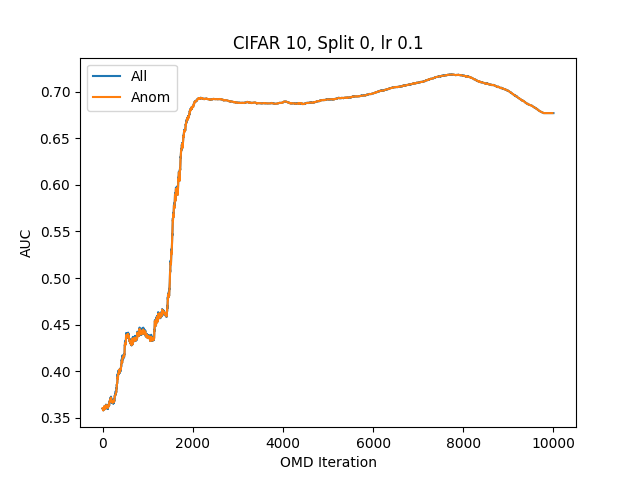
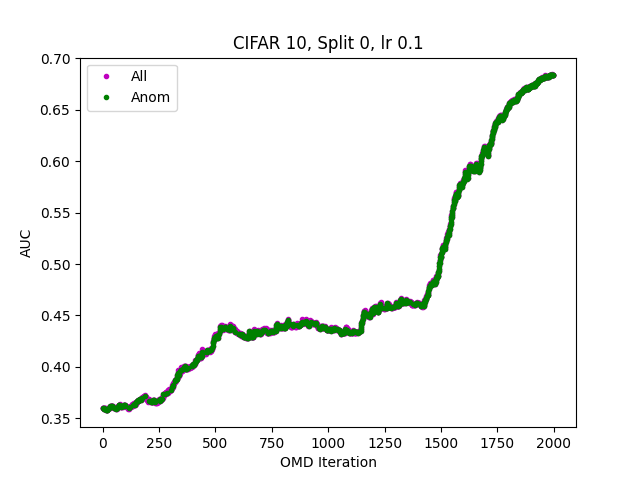
Truncated Trials

diff --git a/oracle_omd.py b/oracle_omd.py
@@ -89,7 +89,7 @@ def omd_test(train_latent_data, latent_data, anom_classes, split, loda_tx_test, 
                   be a list of unique strings)
     '''
     N = len(latent_data)
-    T = N
+    T = N//5
     epochs = 1
     labels = latent_data['label'].copy()
     labels = labels.to_numpy().reshape((len(labels),1))
@@ -170,7 +170,7 @@ def omd(train_latent_data, latent_data, anom_classes, split, strategy="max", lea
     '''
     N = len(latent_data)
     epochs = 1
-    T = N
+    T = N//5
     labels = latent_data['label'].copy()
     labels = labels.to_numpy().reshape((len(labels),1))
     wprior, clf = get_weight_prior(train_latent_data)
@@ -184,7 +184,7 @@ def omd(train_latent_data, latent_data, anom_classes, split, strategy="max", lea
         with open(loda_tx_val_filename, 'rb') as f:
             data_orig = np.load(f)
     else:
-        data_orig = loda_transform(clf_omd, latent_data)
+        data_orig = loda_transform(clf, latent_data)
         np.save(loda_tx_val_filename, data_orig) 
 
     data = data_orig.copy()
@@ -789,8 +789,8 @@ def main():
              
              
              plt.figure()
-             plt.plot(T_vec, auc_vec)
-             plt.plot(anom_iters, anom_auc)
+             plt.plot(T_vec, auc_vec, 'm.')
+             plt.plot(anom_iters, anom_auc, 'g.')
              plt.legend(["All", "Anom"], loc="best")
              plt.xlabel("OMD Iteration")
              plt.ylabel("AUC")
